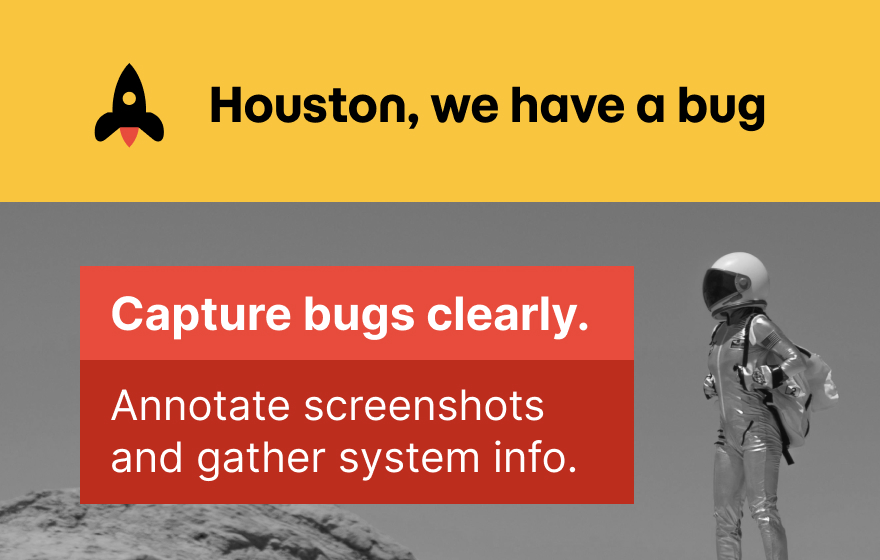
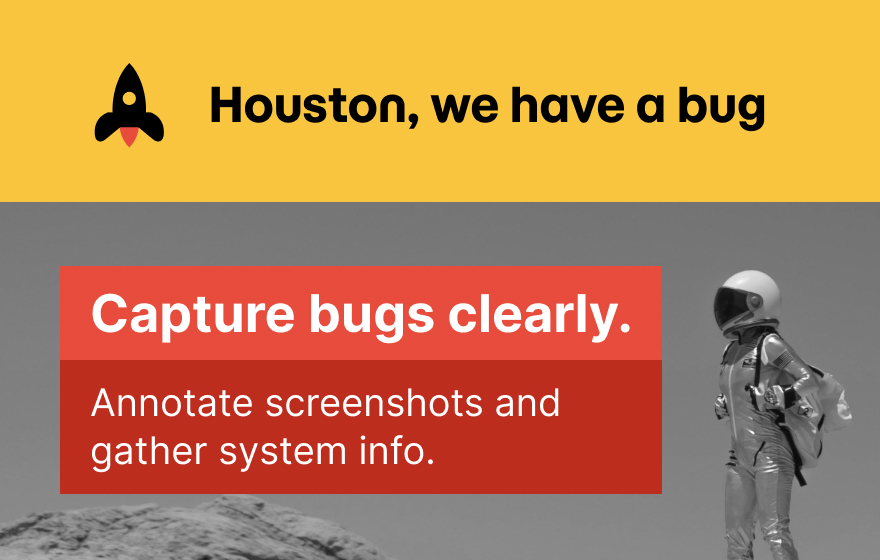
Update tile image and readme

Changed region(s): [[0.0, 0.4554, 0.767, 1.0], [0.7977, 0.425, 0.9818, 1.0]]

diff --git a/README.md b/README.md
@@ -13,7 +13,7 @@
 ![Build](https://img.shields.io/badge/build-esbuild-lightgrey)
 
 <img
-  src="src/images/extension-presentation/hb-small-promo-tile-440x280@2x.jpg?v=5"
+  src="src/images/extension-presentation/hb-small-promo-tile-440x280@2x.jpg?v=6"
   width="440"
   alt="Houston, we have a bug"
 />
